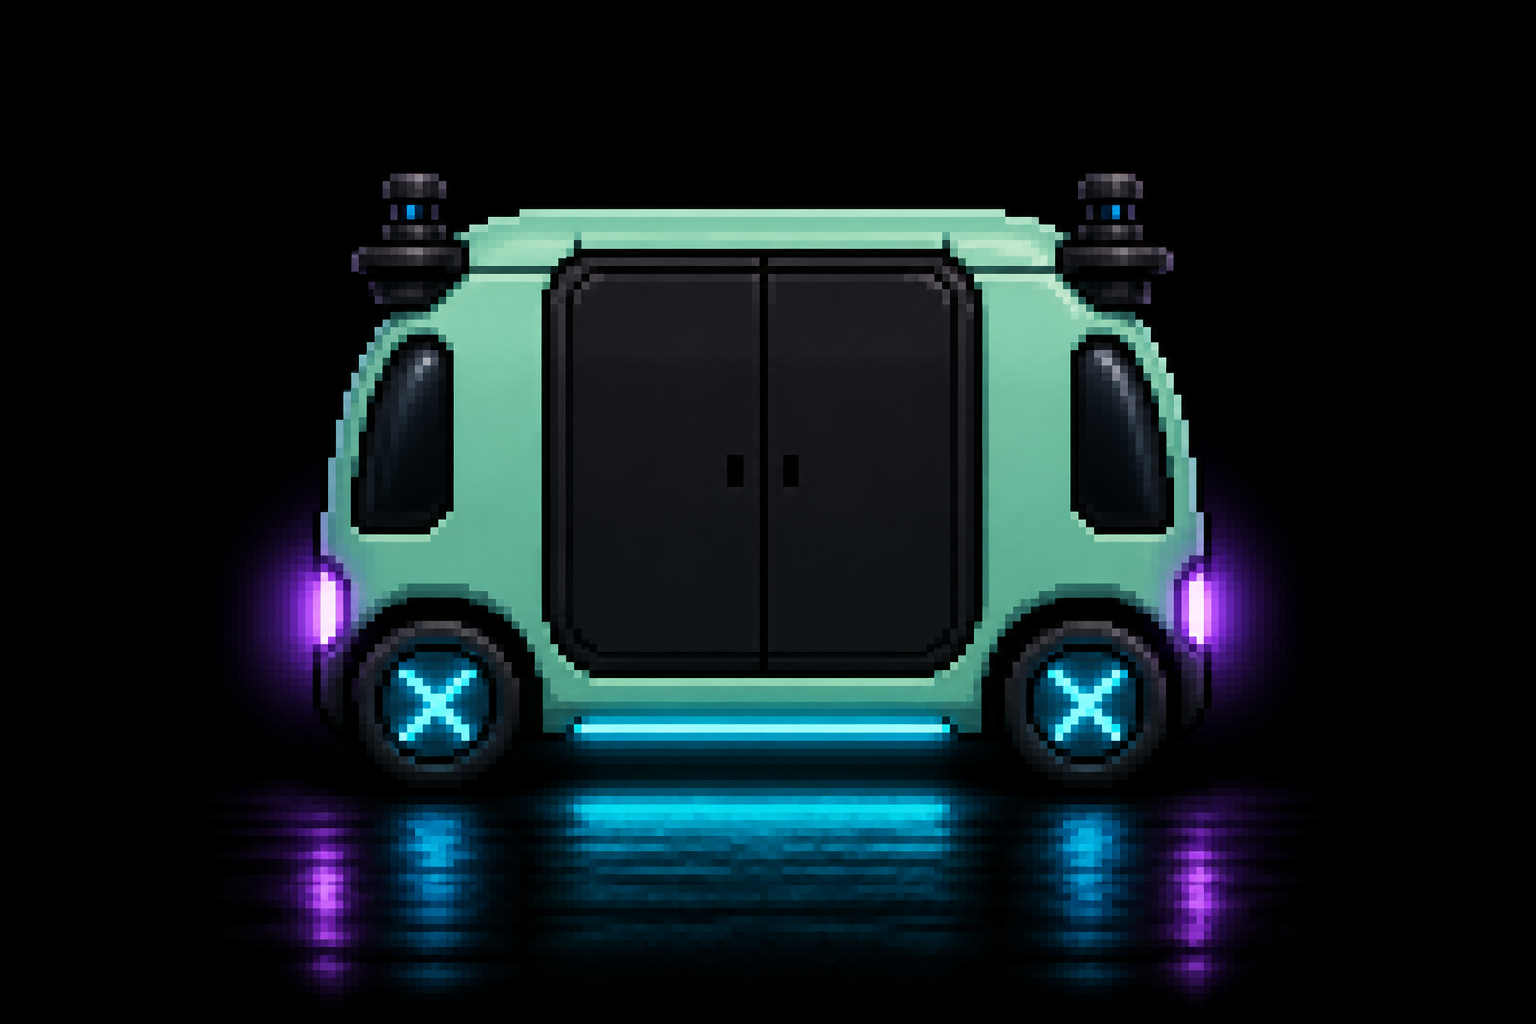
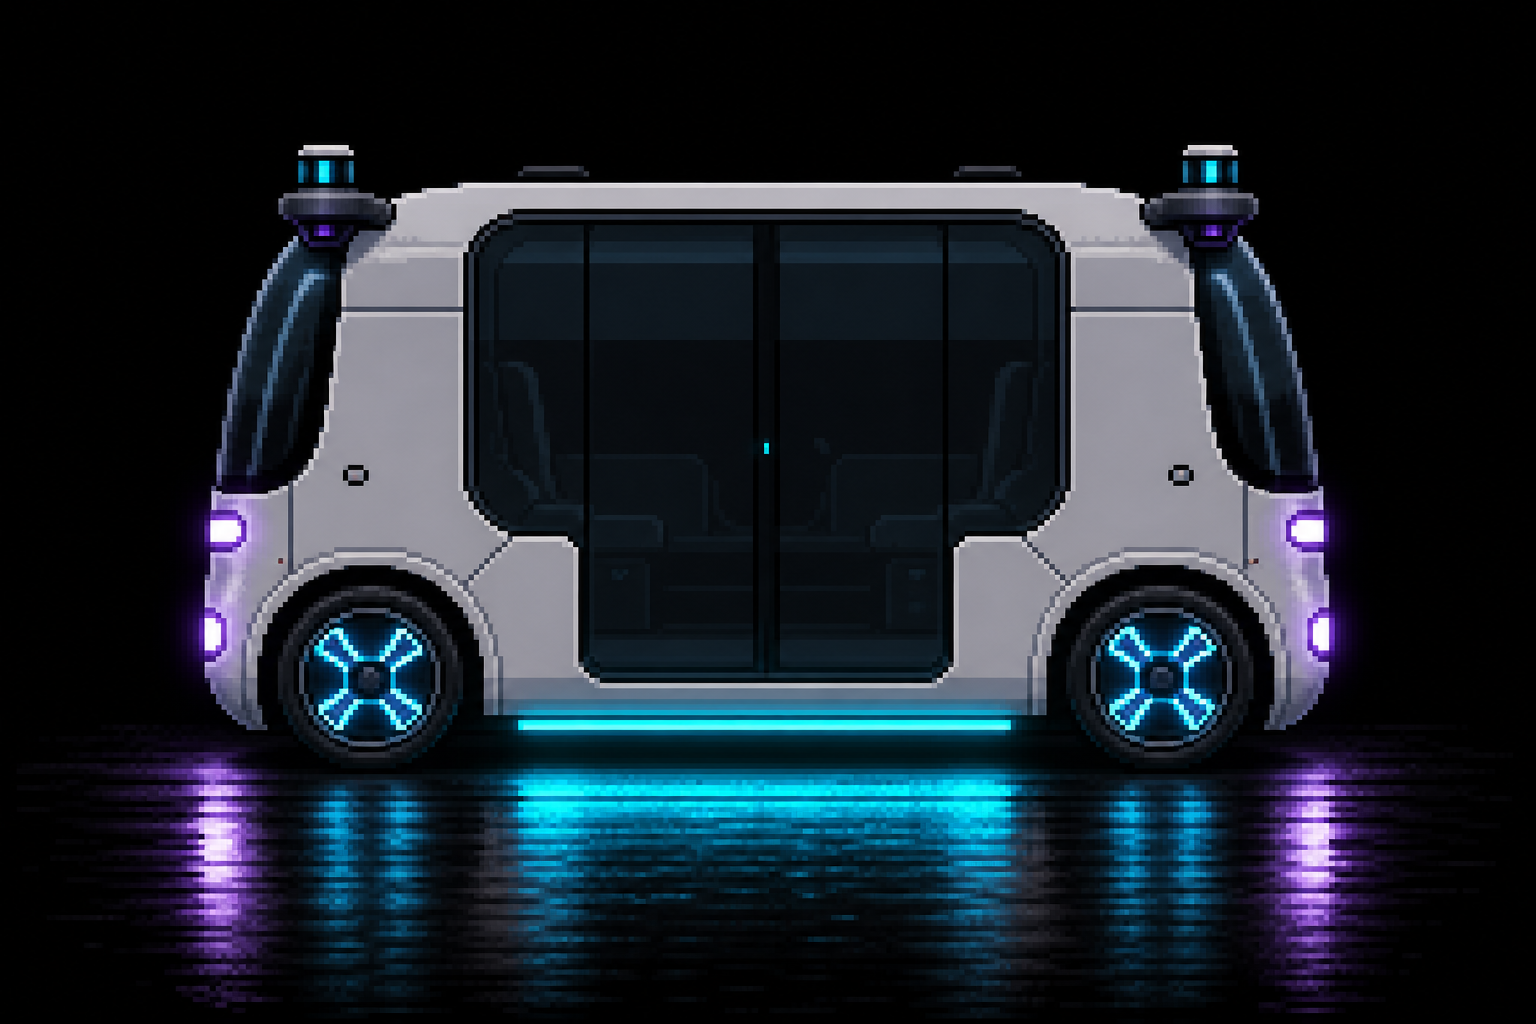
Use off-white compact Zoox reference as the player car
Swap in the user reference plate: short carriage, dark center glass,
cyan X wheels / underglow, purple corner lights. Drop mint recolor so
the off-white body matches the reference.

diff --git a/src/objects/Zoox.js b/src/objects/Zoox.js
@@ -2,7 +2,7 @@ import Phaser from 'phaser';
 import { ASSET_KEYS, INVINCIBLE_MS, LANE_Y, PLAYER_X } from '../config.js';
 
 /**
- * Zoox RoboTaxi — white carriage body, cyan underglow, planted tires.
+ * Zoox RoboTaxi — off-white compact pod, cyan underglow, planted tires.
  * Lane Y is authoritative; wheels stay on the asphalt.
  */
 export class Zoox extends Phaser.Physics.Arcade.Sprite {

diff --git a/scripts/art/make_zoox_robotaxi.py b/scripts/art/make_zoox_robotaxi.py
@@ -1,6 +1,6 @@
 #!/usr/bin/env python3
 """
-Build Zoox robotaxi sprites from the mint seafoam reference plate.
+Build Zoox robotaxi sprites from the painted reference plate.
 
 Source: scripts/art/sources/zoox_robotaxi_ref.png
 Outputs: public/assets/zoox/zoox_{0,1,}.png + effects/zoox_underglow.png
@@ -67,14 +67,15 @@ def key_background(src: Image.Image) -> Image.Image:
 
 
 def polish_colors(img: Image.Image) -> Image.Image:
-    """Push body toward mint seafoam; punch cyan / purple neon for the night road."""
+    """Keep off-white body; punch cyan / purple neon for the night road."""
     arr = np.array(img).astype(np.float32)
     r, g, b, a = arr[..., 0], arr[..., 1], arr[..., 2], arr[..., 3]
 
-    mint = (g > r + 8) & (g > b + 5) & (g > 70) & (g < 230) & (a > 180)
-    r = np.where(mint, r * 0.55 + 120 * 0.45, r)
-    g = np.where(mint, np.minimum(255, g * 0.55 + 220 * 0.45), g)
-    b = np.where(mint, b * 0.55 + 185 * 0.45, b)
+    # Slight cool lift on pale body panels (not mint).
+    pale = (a > 180) & (r > 150) & (g > 150) & (b > 150) & (np.abs(r - g) < 25) & (np.abs(g - b) < 25)
+    r = np.where(pale, np.minimum(255, r * 1.02 + 4), r)
+    g = np.where(pale, np.minimum(255, g * 1.02 + 4), g)
+    b = np.where(pale, np.minimum(255, b * 1.03 + 6), b)
 
     cyan = (b > 140) & (g > 120) & (r < 120) & (a > 100)
     g = np.where(cyan, np.minimum(255, g * 1.08), g)
@@ -102,11 +103,11 @@ def fit_car(img: Image.Image) -> Image.Image:
         min(img.height, y1 + pad),
     ))
     cw, ch = CANVAS
-    # Compact arcade pod — keep it stubby vs traffic / lane width.
-    target_aspect = 1.18  # width / height
-    scale_h = (ch - 24) / crop.height
+    # Compact arcade pod from the user reference (short, not limo-long).
+    target_aspect = 1.22  # width / height
+    scale_h = (ch - 22) / crop.height
     nh = int(crop.height * scale_h)
-    nw = min(int(nh * target_aspect), cw - 80)
+    nw = min(int(nh * target_aspect), cw - 70)
     car = crop.resize((nw, nh), Image.Resampling.LANCZOS)
     return car.filter(ImageFilter.UnsharpMask(radius=1.0, percent=130, threshold=2))
 
